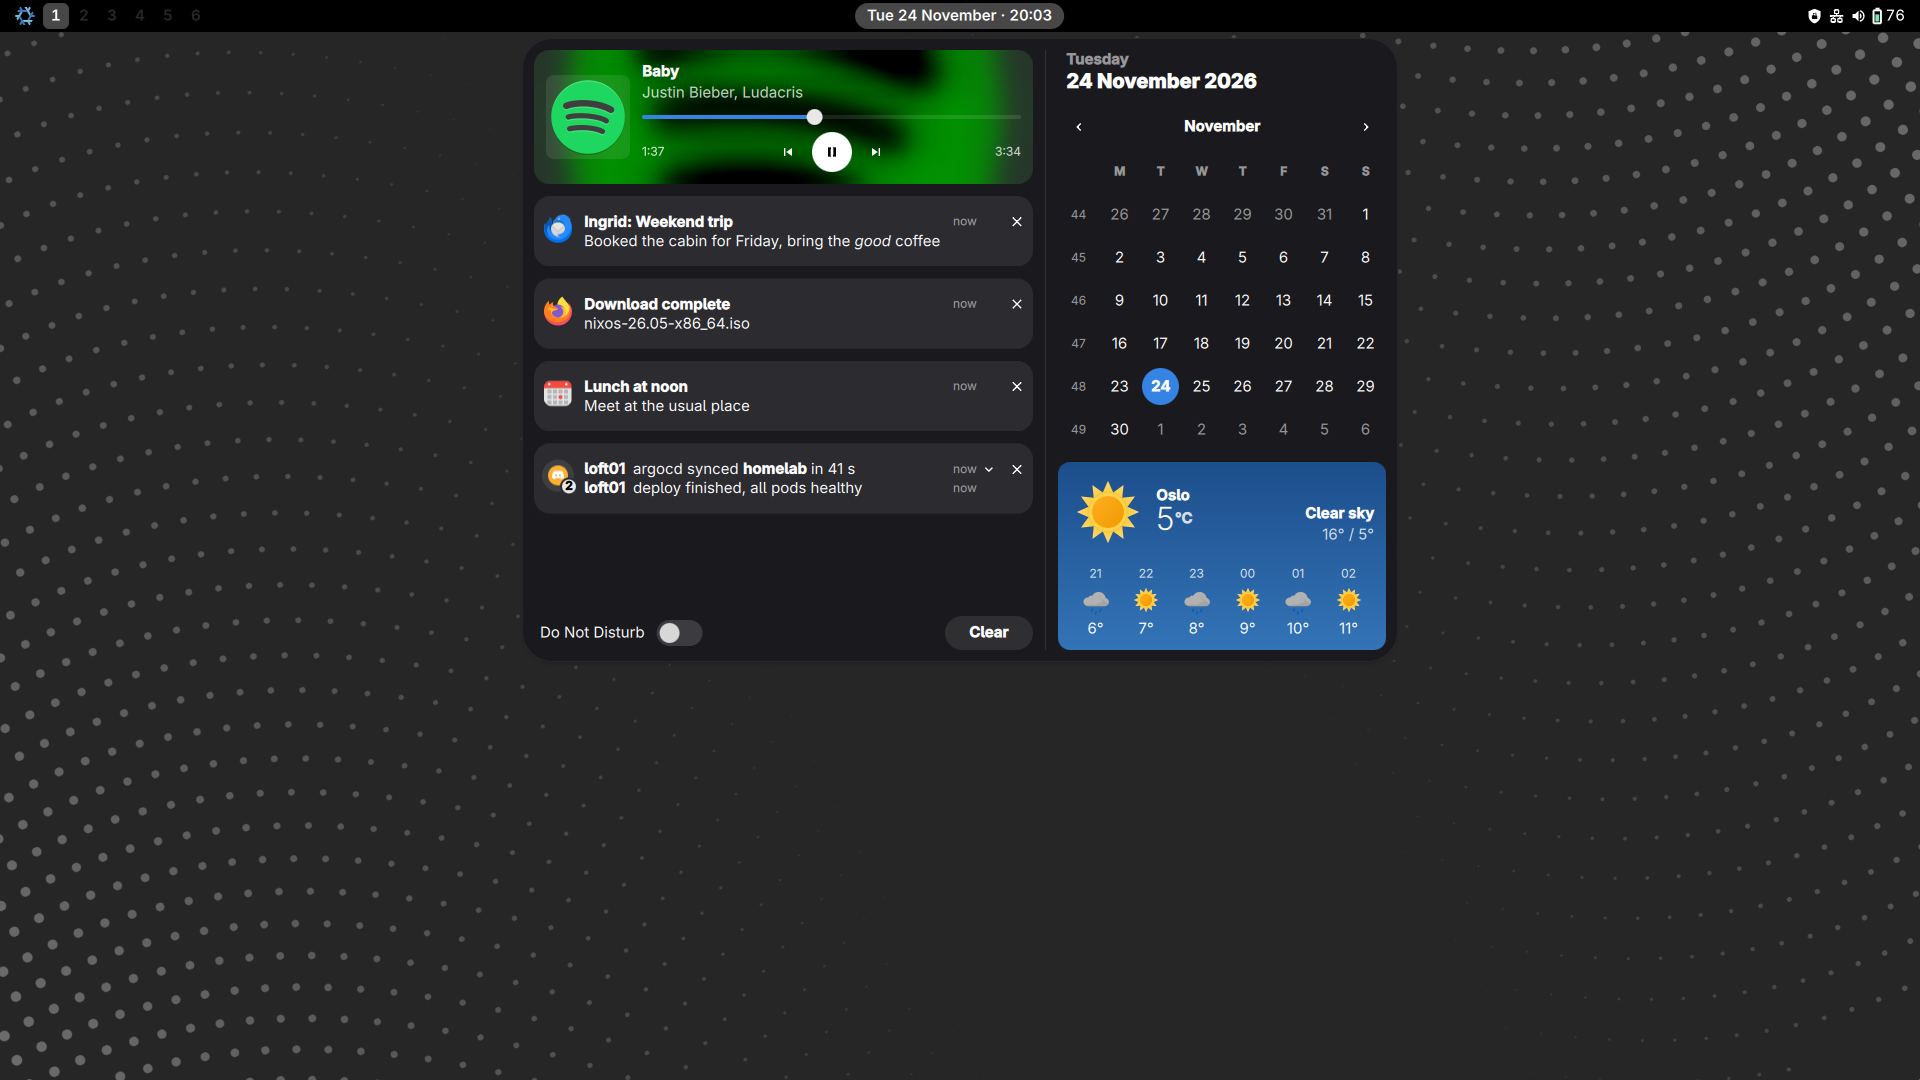
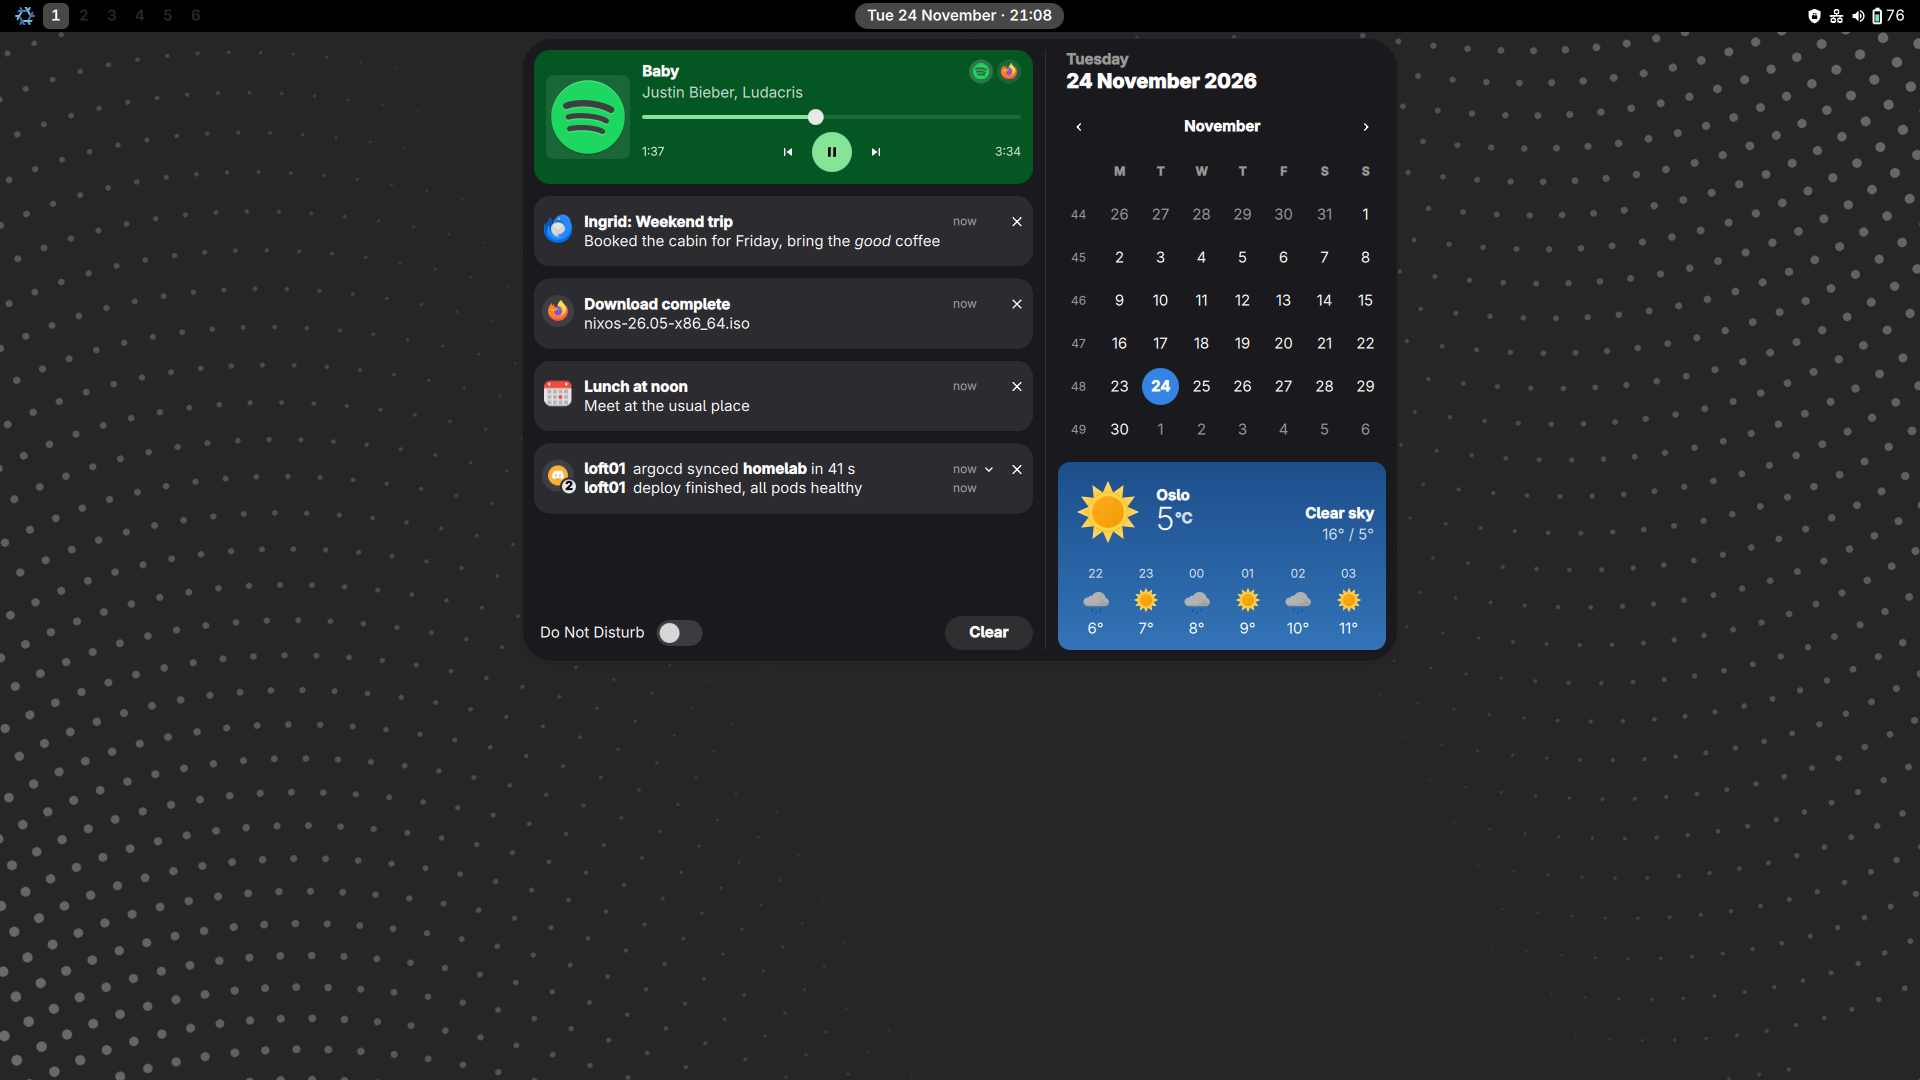
docs: retake the date menu, quick settings in one shot with Sound
The date menu shows the media card in its cover's colour with a button
per player. Quick settings' Wi-Fi, Bluetooth and the Sound menu sit side
by side in one picture instead of two tiles.

Changed region(s): [[0.2812, 0.0306, 0.5625, 0.1833], [0.2812, 0.275, 0.3125, 0.3056]]

diff --git a/README.md b/README.md
@@ -33,9 +33,14 @@ NetworkManager, BlueZ, UPower and MPRIS services.
 | | |
 | --- | --- |
 | ![Date menu with a player, notifications, calendar and weather](docs/gallery/center.png) | ![Notification popups](docs/gallery/notifications.png) |
-| Date menu: player, notifications grouped per app, calendar, MET Norway weather | Notification popups: critical, nixpkgs (SUPER+N) fetching a package, buttons, pictures, markup |
-| ![Quick settings with the Wi-Fi menu open](docs/gallery/controls.png) | ![Quick settings with the Bluetooth menu open](docs/gallery/bluetooth.png) |
-| Quick settings (SUPER+A), Wi-Fi | Quick settings, Bluetooth |
+| Date menu: player in its cover's colour with a button per player, notifications grouped per app, calendar, MET Norway weather | Notification popups: critical, nixpkgs (SUPER+N) fetching a package, buttons, pictures, markup |
+
+![Quick settings with the Wi-Fi, Bluetooth and Sound menus open](docs/gallery/quick-settings.png)
+
+Quick settings (SUPER+A): Wi-Fi, Bluetooth, Sound
+
+| | |
+| --- | --- |
 | ![App launcher](docs/gallery/launcher.png) | ![Clipboard history](docs/gallery/clipboard.png) |
 | Apps (SUPER+D) | Clipboard history (SUPER+V) |
 | ![Window switcher with live previews](docs/gallery/windows.png) | ![Monitor layouts](docs/gallery/monitors.png) |
